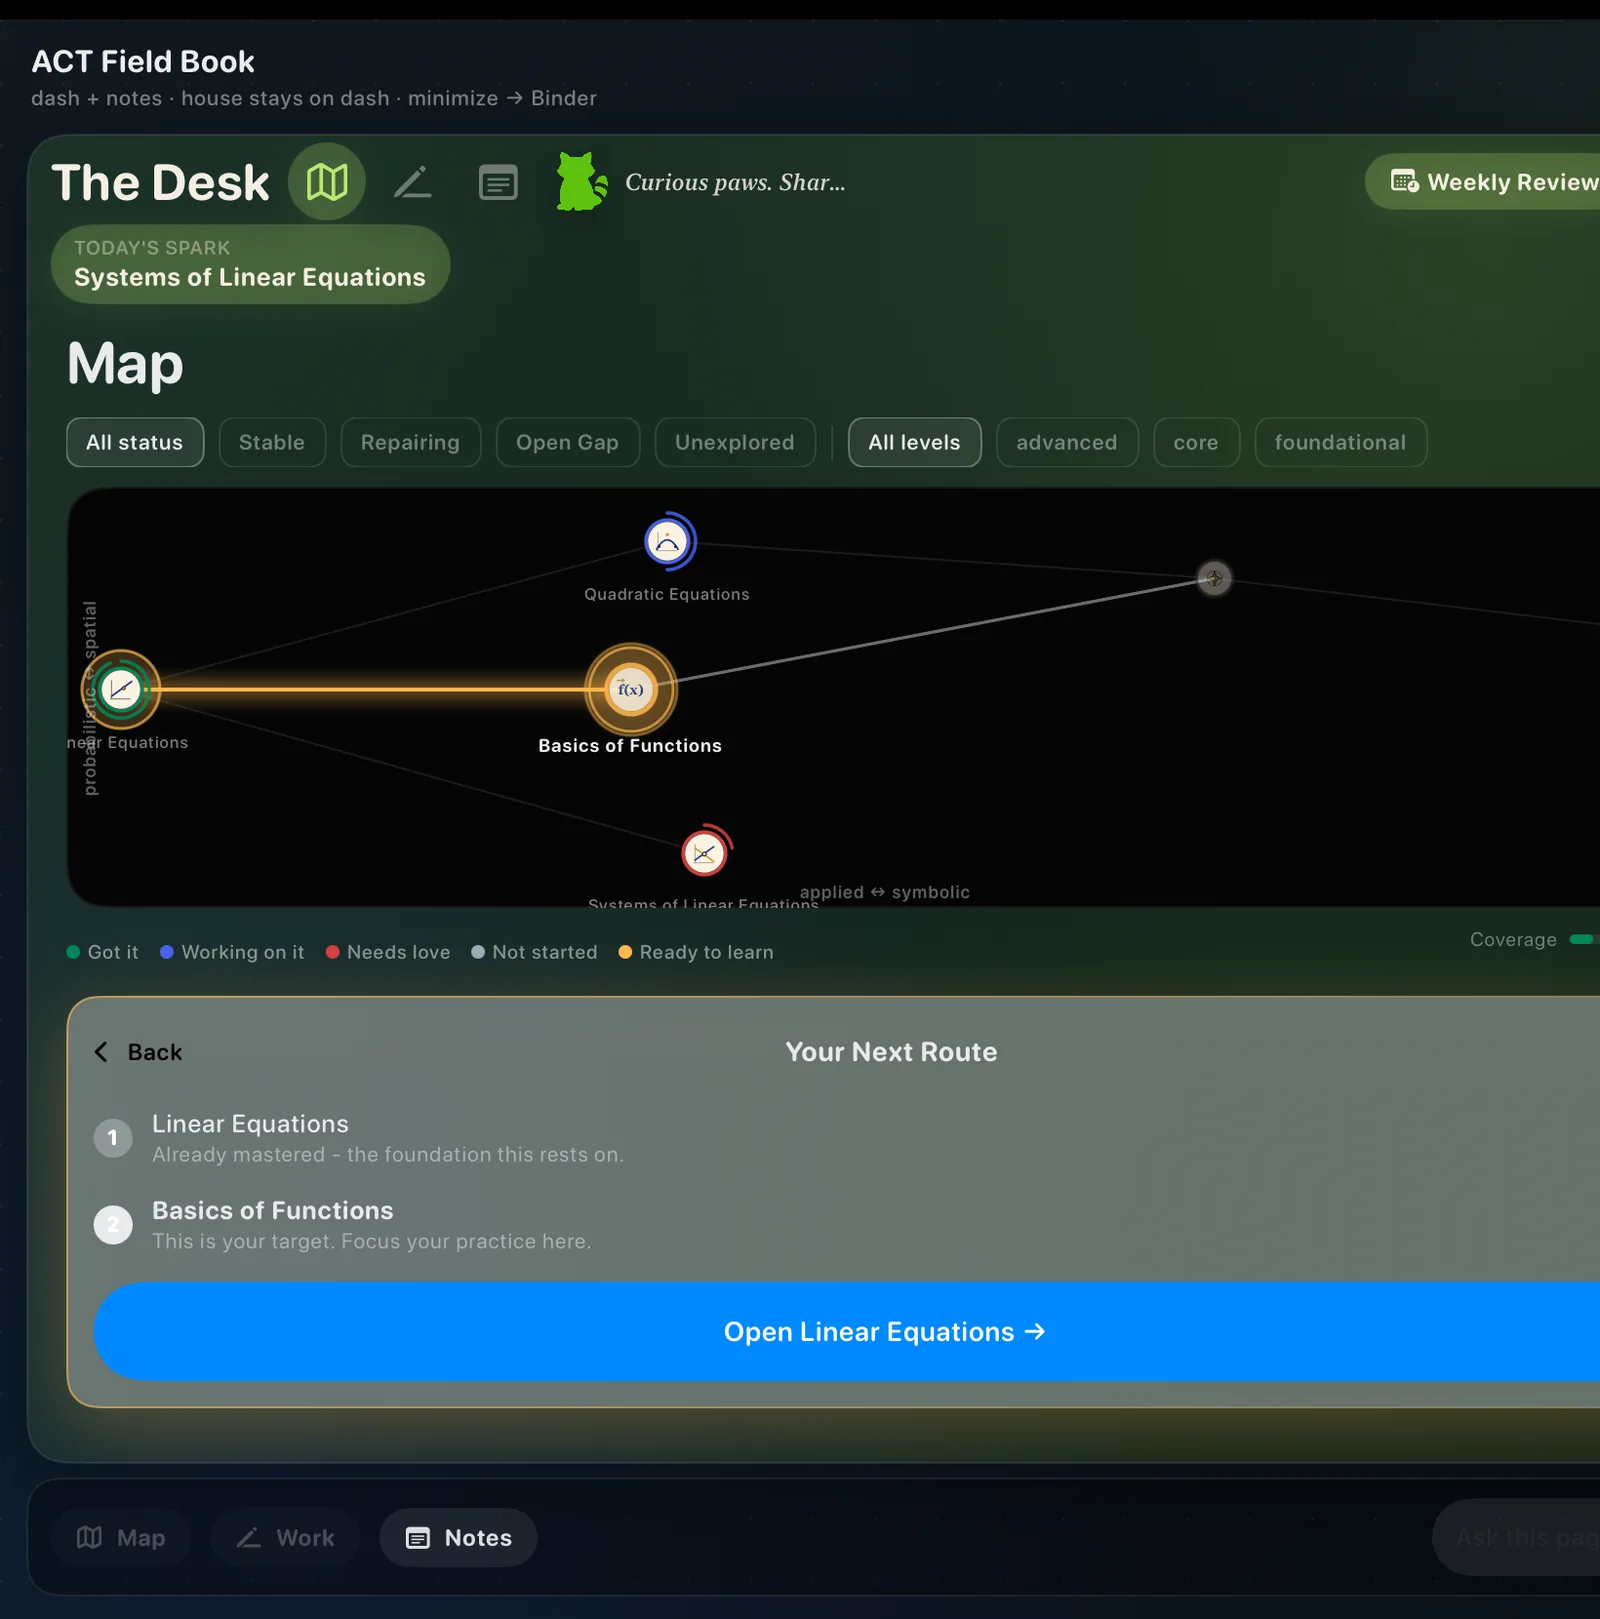
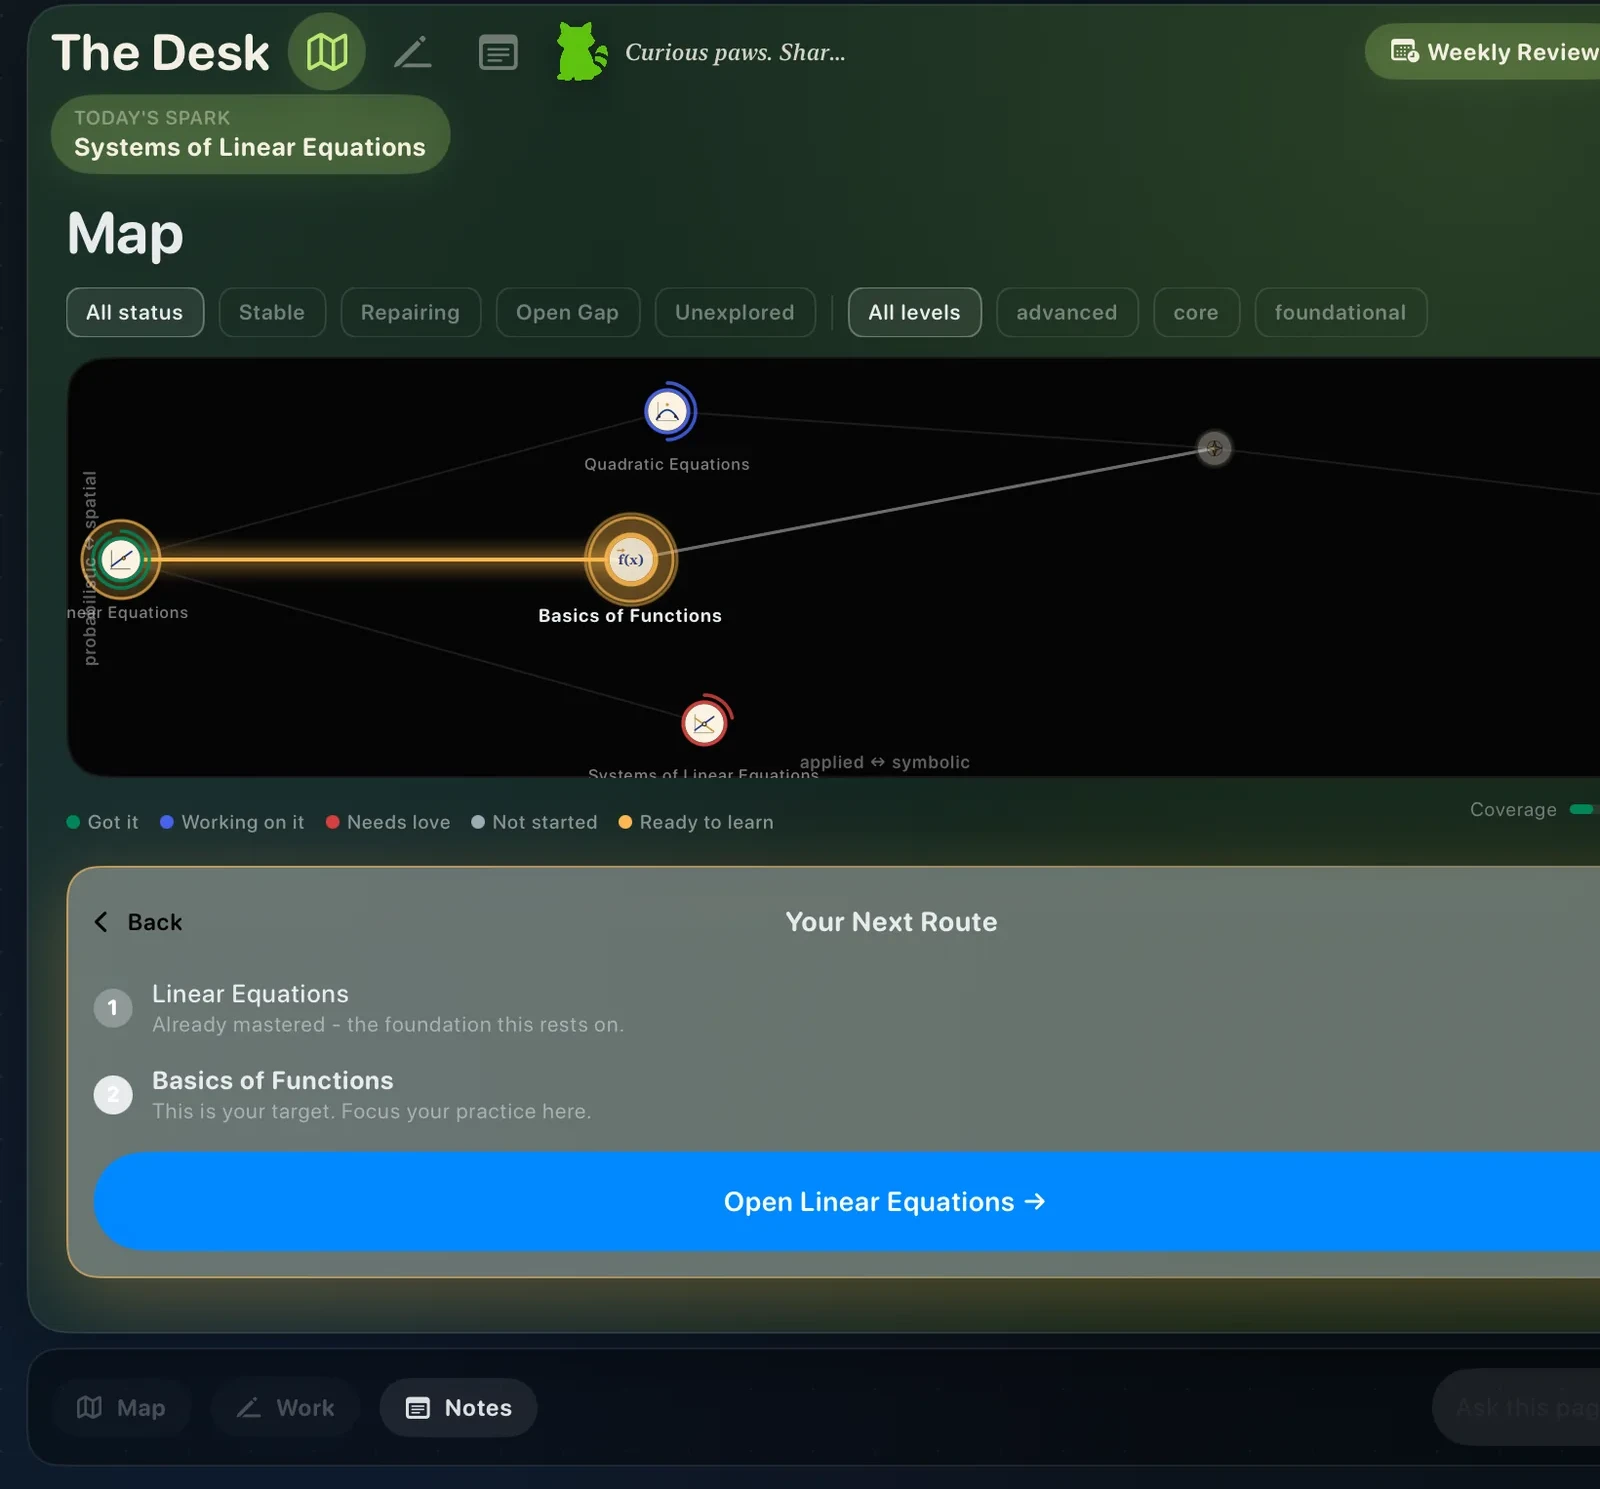
marketing: clean up reel Solver/Map screenshots, tighten scroll and copy
reel-solver.webp and reel-map.webp had real device chrome bleeding through
(status bar, a stray Close button, a dev-only debug label, black
letterboxing) - cropped both to the actual app content, no recapture
needed since the underlying screenshots were fine once the top strip is
gone. Also: removed the reel section's over-explaining "Not a mockup..."
lede for tighter show-don't-tell copy, and cut the pinned scroll length
from 420% to 330% of viewport height (85%/frame -> 70% -> 55% across two
rounds of tuning) since it still read as scroll-jacking even after last
round's fix.

Also adds agent_work/product/field_desk_create_redesign_2026-08-15/BRIEF.md,
structuring a long voice-memo feedback pass on the Field Desk/Create UX
(bugs, redesign specs, and open questions) into a scoped build doc.

diff --git a/index.html b/index.html
@@ -537,7 +537,7 @@
     <div class="reel-intro">
       <div class="kicker" style="justify-content:center;">Scroll to watch it work</div>
       <h2 class="h2 reveal">One desk. Six real screens.</h2>
-      <p class="lede reveal">Not a mockup: the actual, currently-shipped app. Keep scrolling; each frame below is real, running software.</p>
+      <p class="lede reveal">Every frame below is the live app, mid-session: Jesse's desk, a chapter, a problem worked through, a map lighting up as it happens.</p>
     </div>
   </div>
   <div class="reel-pin" id="reelPin">
@@ -1047,11 +1047,11 @@
       scrollTrigger: {
         trigger: pin,
         start: 'top top+=80',
-        // 85%/frame (510% total for 6 frames) held the pin for over five full
-        // viewport-heights of scrolling to read six captions - reduced to
-        // 70%/frame so each frame gets enough dwell to land the crossfade and
-        // read its caption without the section outstaying its welcome.
-        end: '+=' + (frames.length * 70) + '%',
+        // 85%/frame, then 70%/frame, both still held the pin for 4-5 full
+        // viewport-heights - still read as scroll-jacking even with a fast
+        // crossfade. 55%/frame (330% total) is the shortest dwell that still
+        // lands the crossfade and lets the caption register before advancing.
+        end: '+=' + (frames.length * 55) + '%',
         // .7 stacked with Lenis's own smoothing (see above) to double-lag the
         // crossfade behind the actual scroll input; .4 still smooths out
         // trackpad jitter but tracks the pointer closely enough to not feel

diff --git a/agent_work/product/field_desk_create_redesign_2026-08-15/BRIEF.md b/agent_work/product/field_desk_create_redesign_2026-08-15/BRIEF.md
@@ -1,0 +1,261 @@
+# Field Desk + Create — structured feedback pass (2026-08-15)
+
+Source: a single long voice-memo transcript from Akshat testing the live iPad build,
+plus a 5-page reference PDF (`Presentation Screen.pdf` — stock-photo mockup of a
+skincare brand's presentation tool, used purely as an INTERACTION/LAYOUT reference,
+not literal content). This doc restructures that transcript into scoped, actionable
+items, grounded against the real `ios-prototype/MindCraftNotes/` code where checked.
+
+Each item is tagged:
+- **[BUG]** — confirmed broken against real code, ready to fix
+- **[VERIFY]** — reported broken, but the code looks like it should already work; check on-device before assuming a rewrite is needed
+- **[REDESIGN]** — current behavior works but the shape is wrong; spec below
+- **[NEW]** — doesn't exist yet, full spec below
+- **[OPEN]** — explicitly deferred by Akshat pending a Figma/Canva mockup he's making next
+
+Read `CLAUDE.md`'s "iOS native app" section before touching `FieldDeskView.swift` —
+it documents a real, recurring overlay-blocking bug class (`deskOverlayChromeBlocked`)
+that several items below likely intersect with.
+
+---
+
+## 1. Field Desk landing (Jesse's Ramen) — keep, but fix the surrounding chrome
+
+**Confirmed good, don't touch:** landing directly on Jesse's Ramen with the call
+button and "The Desk" wordmark visible. This is the right front door.
+
+- **[BUG] "Open Learning Archive" does nothing.** `DeskShellView.swift:579` defines
+  it as a static list entry (`id: "open_archive", name: "Open Learning Archive"`)
+  inside the Workflow Market sheet, but there's no dispatch case anywhere that
+  handles that id when tapped — it's a dead list row. Needs a real tap handler
+  (open `dans-archive.html`-equivalent in-app, or the archive's live URL in a
+  browser sheet).
+- **"Create an instance"** — currently upload-only. Akshat flagged this as
+  observed-state, not a complaint. No action unless scope grows later.
+- **Booking page** — exists, works, no complaint.
+- **Workflow Market** — the picker UI exists (`WorkflowMarketStore`) but selecting
+  a workflow doesn't launch a real flow yet ("not wired to the actual workflows").
+  This is the same gap Section 7 below specs the fix for.
+
+### Hub nav (top bar on the secondary/instance-hub page, `DeskShellView.swift:368-412`)
+
+Current real layout: `[The Desk wordmark] [call button] ... [name/email] [house icon → Field Desk] [Sign out]`.
+
+- **[VERIFY] House icon "does nothing."** The code already sets
+  `fieldDeskRoute = .plain` on tap (`DeskShellView.swift:390-401`), which should
+  navigate back to Field Desk. Either this binding isn't actually being observed
+  somewhere downstream (real bug), or the icon just isn't legible as "go back to
+  Jesse" (a labeling/affordance problem, not a logic bug). Reproduce on-device
+  first before rewriting the navigation.
+- **[REDESIGN] Move "Sign out" out of the top bar entirely** — relocate it to the
+  bottom of the hub page, under the Workflow Market section. It shouldn't share
+  visual weight with primary navigation.
+- **Email/name block stays top-right** (already correct) — but the button next to
+  it should read as "back to Jesse's," not a generic house glyph. Relabel/restyle
+  rather than reposition (position is already right).
+- **[BUG] Return-to-Jesse transition isn't fluid.** Going from the hub back to
+  Field Desk visibly re-instantiates Jesse's Kitchen in the background before it's
+  ready, producing a stall. Needs the Kitchen `WKWebView`/world instance kept warm
+  (not torn down on navigate-away) so the return trip is instant, not a fresh load.
+- **[BUG] After returning to Jesse's Ramen, the 3D scene is inert** — can't
+  orbit/interact with it at all unless "projects" is tapped first (which opens the
+  desk). Either the scene should be interactive immediately on arrival, or — if
+  requiring "projects" first is intentional — that needs to not read as broken
+  (e.g. a visible affordance hinting "tap projects to interact").
+
+---
+
+## 2. Binder / desk overlay panel — bugs
+
+- **[BUG] Binder panel doesn't animate closed** — "the binder is not coming down,
+  it stays on the screen." Sounds like a missing/broken dismiss transition on the
+  Binder `movableCard` (`FieldDeskView.swift:1623` area), not a state bug (the data
+  is presumably fine, the close animation isn't firing or isn't visible).
+- **[REDESIGN] Intel card proportions are wrong** — "too horizontally long and not
+  wide," described as ugly. Needs a real dimension/visual pass, not just a content
+  fix. Reference: PDF page 4's Intel tile for target proportions (see Section 6).
+- **[REDESIGN] Merge the two stacked toolbars into one.** Currently there's an
+  "Ask AI" toolbar and a separate toolbar directly above it. These should combine
+  into a single unified bottom toolbar — this same merge applies to the search bar
+  too (Section 5) and to the Create screens (Section 3/4). Treat this as one
+  toolbar component reused everywhere, not three separate merges.
+- **Memo (create/write/pin)** — confirmed working, no complaint. Don't touch.
+
+---
+
+## 3. G-Doc / Presentation creation — currently broken, full redesign spec
+
+### Current bug **[BUG]**
+Tapping G-Doc: the screen shifts but the doc panel renders far below the visible
+area — unreachable, unscrollable, can't be tapped. Same for Presentation. Both
+`.gdoc` and `.slides` already exist as real `movableCard` cases
+(`FieldDeskView.swift:1217`, `:1223`) using the same wrapper as the working
+Gmail/Calendar/Memo cards — so this is most likely a bad initial-placement
+coordinate for these two specific cards (off-viewport spawn position), not a
+missing feature. There's also a stray, unexplained "+" button in this state that
+reads as confusing UI — audit what it's actually for before deciding to keep it.
+
+### Target redesign **[REDESIGN]**
+Tapping G-Doc or Presentation should open the **Create screen** (not a movable
+card at all — a dedicated full-screen mode), matching this shape:
+
+- The document/slide is **centered** on screen (full doc for G-Doc; the current
+  slide for Presentation).
+- **One merged AI toolbar at the bottom** — same unified component as Section 2.
+  Accepts either typed text or voice; voice gets transcribed and the AI turns it
+  into proper notes/content (reuse the existing auto-transcribing memo pattern
+  already shipped — see `reel-field-desk.webp`'s "AUTO TRANSCRIBING" card for the
+  pattern already built and working elsewhere in the app).
+- Floating utility boxes around the edges for doc-specific tools, OR let the doc
+  occupy the full screen if that reads cleaner — Akshat is open on this, use
+  judgment once it's built and testable.
+- **Remove the video placeholder** from this view — that's specific to the video/
+  Create-Studio segment (`CreateInstanceStudioView.swift` territory) and shouldn't
+  appear in the doc/slide creation flow.
+
+### Presentation-specific right panel **[REDESIGN]**
+Today the Create Studio's right panel (per `reel-create.webp`, already shipped)
+shows **Stickers / Music / Looks**. For the Presentation flow specifically, replace
+that panel with a **call-Jesse box** — see Section 4, this is the same call UX
+spec, just docked in this right panel instead of a separate screen.
+
+### Detailed interaction spec — text entry + live call, side by side **[NEW]**
+This is the fullest version of the flow Akshat described, twice, slightly
+differently each time — treat this as the target, build toward it in stages:
+
+1. Tap Presentation → a text-entry/keyboard state opens at **center screen**
+   ("+ slide" to add new slides).
+2. AI panel (bottom, merged toolbar) helps draft content via chat.
+3. **The moment a call starts:** the center presentation panel slides/shifts
+   **left**, the AI toolbar stays, and a **new box appears to the left of that**
+   showing a **live transcription of the conversation**, converted into notes in
+   real time (reuse the existing transcribe-to-memo pipeline — this is not new
+   infrastructure, it's the same auto-transcribe pattern wired into a new spot).
+4. Alternate flow: multiple people can be on the call together (not just
+   student+Jesse) working on the same presentation, with the same live
+   transcription feeding notes in the background.
+
+Vision framing Akshat gave for this, worth keeping in mind while building:
+*"an interface where people can work from their bus, from anywhere they are, to
+create sick presentations using AI."* Not Canva-level polish required for v1 —
+functional and fluid matters more than visual finish right now. He's open to an
+existing open-source base if one fits (slide-editor + real-time transcription),
+or building in-house from free-tier building blocks — flag options back to him
+rather than picking silently, this is a real build-vs-buy call worth his input.
+
+---
+
+## 4. Call-with-Jesse UX — replaces push-to-talk everywhere in Create
+
+**[REDESIGN]** — this generalizes across G-Doc, Presentation, and any future
+Create surface. Current pattern elsewhere in the app (Resume Help, per
+`JesseCallSession.swift`) uses **hold-to-talk** ("Hold to talk. Release when
+you're done."). Akshat explicitly does NOT want that pattern inside Create:
+
+- **Tap to call, not hold-to-talk.** A single button starts a live, continuous,
+  back-and-forth conversation — closer to a live ChatGPT voice session than a
+  walkie-talkie.
+- Reference shape (PDF pages 1 &amp; 3): a rounded call card with an avatar, a
+  waveform/playback scrubber, a text line ("Hi Akshat, Jack here." → should read
+  **"Hi Akshat, Jesse here."** in our build — the reference PDF uses a placeholder
+  brand, swap the name, keep the layout), and a primary "Jump on a call with
+  [Jesse]" button, with "or continue in chat" as the fallback path.
+- **While the call is live, the AI executes real edits in the background** — what
+  gets said becomes an instruction sent to the background AI, which acts on the
+  document/presentation as the conversation happens (add a slide, rewrite a line,
+  restyle something) without the student having to stop talking and tap a button.
+- **[OPEN]** Akshat flagged he can't currently verify whether his AI API is fully
+  wired to actually execute these instructions end-to-end yet — don't assume the
+  execution half is done; confirm the real backend hookup before treating "AI
+  edits the doc live" as shippable, only the call UI + transcription capture are
+  confirmed in scope for this pass.
+
+This is a straightforward reuse of `JesseCallSession`'s existing plumbing
+(Kokoro TTS voice, live transcription) — the delta is UX shape (continuous vs.
+hold-to-talk) and adding the "AI acts on the document" execution loop, not
+building calling infrastructure from scratch.
+
+---
+
+## 5. Left panel reorder + toolbar merge
+
+**[REDESIGN]**
+- New order for the desk-tools panel: **Binder, Calendar, Memo, Gmail** (verify
+  against whatever the current `projectsToolsPanel` order is —
+  `FieldDeskView.swift:1204-1211` currently lists Binder, Intel, Transcribe, Doc,
+  Memo, Gmail, Gcal; reconcile the two rather than blindly overwriting, some of
+  those extra entries may still need a home).
+- Replace the "+" add button with a **Flows** entry point instead.
+- The search bar merges into the same unified toolbar from Section 2/3 — one
+  toolbar component, not three separate ones scattered across the app.
+- **Make this whole panel freely draggable/movable** on screen (same free-
+  positioning behavior the other movable cards already have).
+
+---
+
+## 6. Exact layout reference — PDF pages 4 &amp; 5 (pixel/proportion spec)
+
+This is the most literal, least-ambiguous part of the feedback — treat page 4 of
+the attached PDF as **ground truth for tile dimensions**, not just a vibe
+reference:
+
+- **Page 4**: five tiles at fixed sizes — Intel (small, landscape), Moodle (small,
+  landscape, two-up), Binder (large, portrait, dominant), Email Summaries (small,
+  landscape), Gcal (small, portrait-ish square). Treat this whole page as
+  "how the iPad renders it" — each tile in our real app should match that
+  reference's proportions for its equivalent (Intel → Intel, Binder → Binder,
+  Gmail digest → "Email Summaries," Gcal → Gcal; Moodle maps to the existing
+  Moodle entry inside the Connect widget, not a new top-level card). Anything not
+  yet wired to a real integration gets a placeholder sign rather than being
+  omitted.
+- **Page 5**: same five tiles **plus a new Memo tile** added on the right. Adding
+  it causes every existing tile to **shrink and shift left** to make room — a
+  responsive reflow, not an overlay-on-top. A single **combined toolbar sits
+  underneath everything** once the new tile is added (this is the toolbar-merge
+  point again, now with an exact visual reference for where it docks).
+
+Build the desk-tools grid as a reflowing fixed-tile layout matching these two
+reference states (baseline 5-tile / expanded 6-tile-with-toolbar), rather than
+guessing proportions from scratch.
+
+---
+
+## 7. Workflows ("Flows") panel behavior
+
+**[REDESIGN]**
+- Clicking **Flows** should NOT push a new full-screen page. Instead, on the
+  right side of the current screen — in the exact same slot the AI panel occupies
+  for Presentation (Section 3/4) — it should **swap its content to a workflow
+  list** (Resume Builder, etc.) in place of the Binder/Calendar/Memo/Gmail list.
+  Same panel, different content mode, not a navigation event.
+- Selecting a specific workflow (e.g. **Resume Builder**) triggers the same
+  reflow-left pattern as Section 6's tile-add case, and **Jesse's call panel opens
+  to the right** (matching Section 4's call card) to walk the student through that
+  workflow — e.g., first-time LinkedIn setup for Resume.
+- **[OPEN]** Each workflow will need its own tailored right-panel design. Akshat
+  is preparing reference images/Figma per workflow, starting with Resume; a more
+  involved **Dance workflow** is coming separately with its own Figma. Don't
+  design ahead of those references — build the panel-swap mechanism generically
+  (Section 7's structural behavior) so each workflow's specific content can slot
+  in once its reference arrives, rather than hand-building Resume's specific UI
+  as if it were the template for all future workflows.
+
+---
+
+## Suggested build order
+
+1. **[BUG] fixes first** — Open Learning Archive dead link, G-Doc/Presentation
+   off-screen spawn position, Binder close animation. These are small, isolated,
+   and unblock testing everything else.
+2. **[VERIFY]** the house-icon navigation and the Jesse's-Ramen interactivity
+   gate on-device before writing any code for either.
+3. **Toolbar merge component** (Section 2/3/5) — build once, reuse in all three
+   places rather than three one-off merges.
+4. **Section 6's tile-reflow layout** — concrete, pixel-referenced, no open
+   questions, good candidate to build fully before the fuzzier Create/call work.
+5. **Call-with-Jesse tap-to-talk redesign** (Section 4) — UI shape first,
+   background-execution loop only once the AI API wiring is confirmed live.
+6. **G-Doc/Presentation Create screen** (Section 3) and **Flows panel-swap**
+   (Section 7) last — both depend on the toolbar and call components above being
+   solid first, and both have real open questions Akshat is still resolving with
+   upcoming Figma/Canva references.
